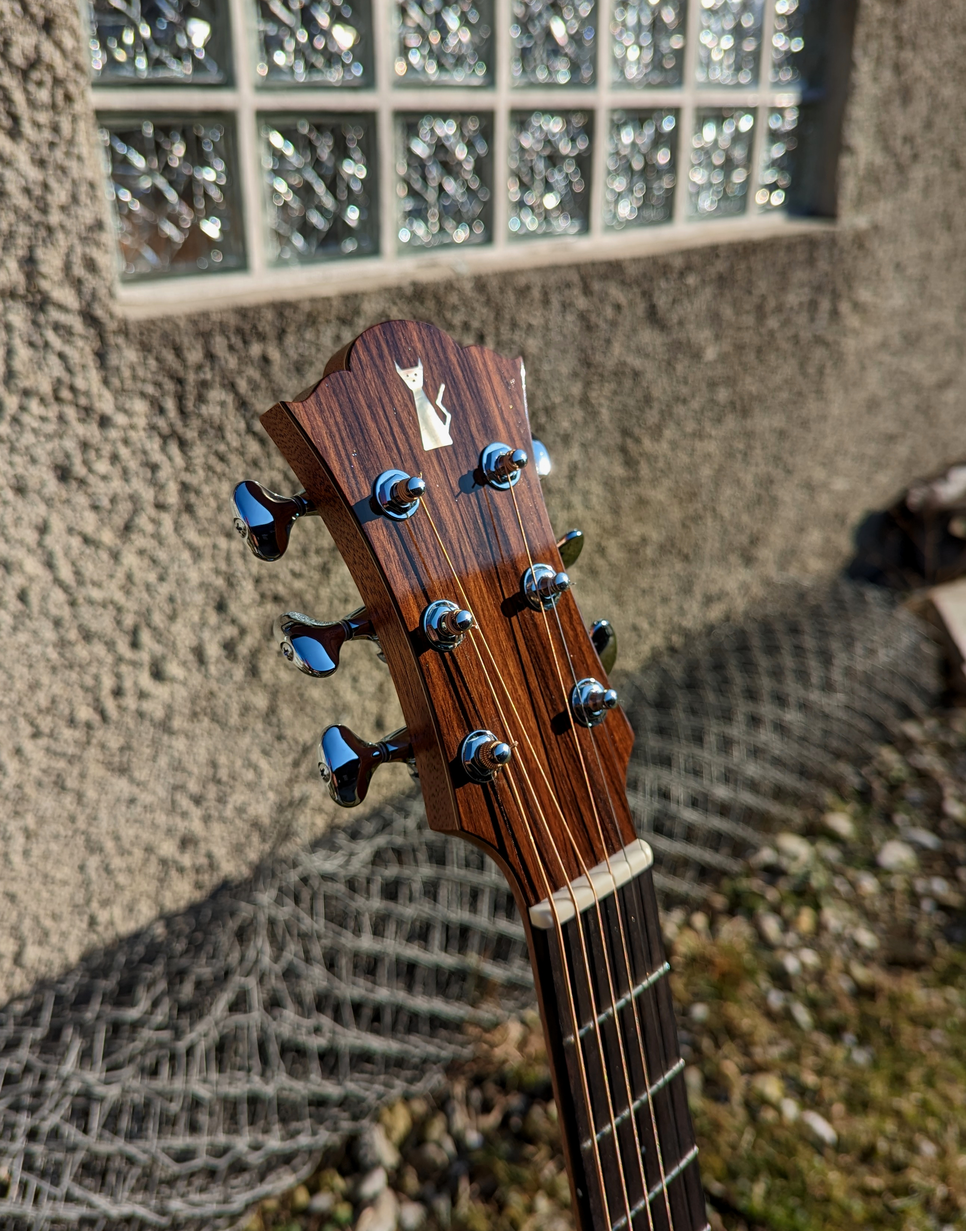
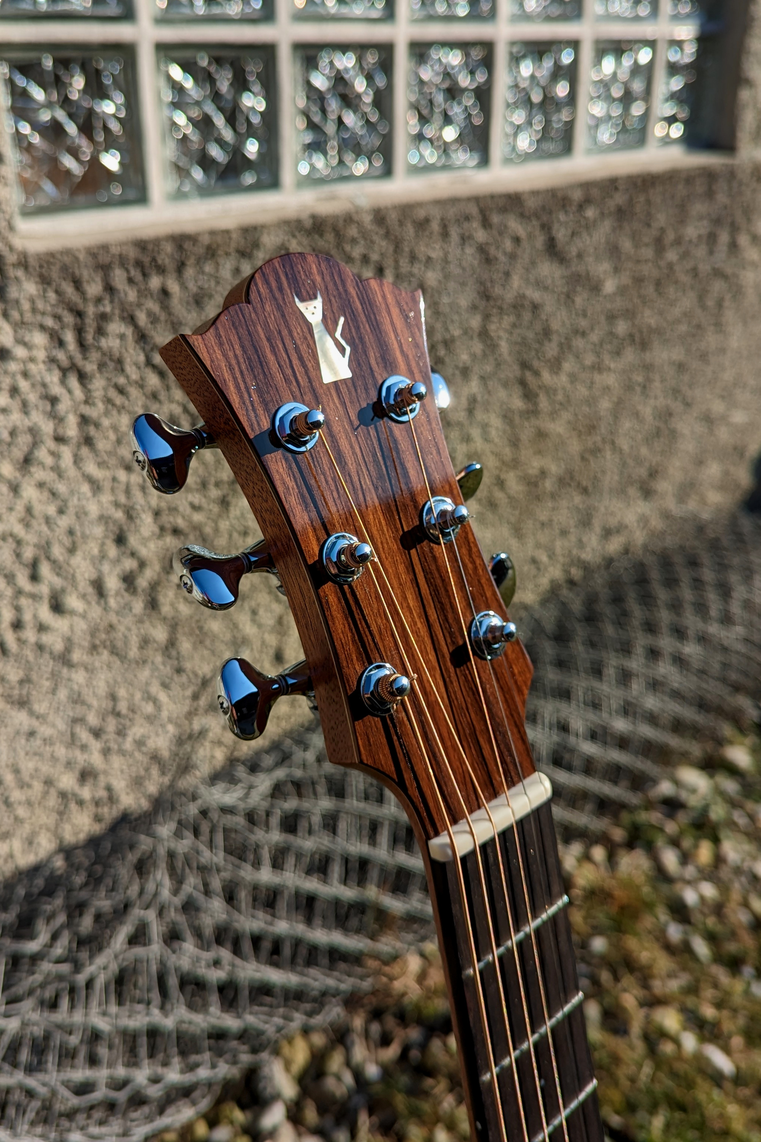
Aktualisierung
Neue Modelle. Neue Bilder. Ferienmeldung aktualisiert.
Texte überarbeitet.

diff --git a/templates/gitarren/neubau.html b/templates/gitarren/neubau.html
@@ -5,7 +5,7 @@
 <h2>Neubau</h2>
 
 <p>
-Klang, Ergonomie und Ästhetik sind für mich Wegweiser in der Gestaltung neuer Instrumente. Für die Umsetzung dieser Ideen ist es mir möglich, auf eine Auswahl abgelagerter Tonhölzer von hoher Qualität zurückzugreifen. Durch meine seit Jahren wachsende Leidenschaft für Saiteninstrumente hat sich eine Bauweise entwickelt, die meiner ganz persönlichen Idealvorstellung einer Gitarre sehr nahe kommt.
+Klang, Ergonomie und Ästhetik sind für mich Wegweiser in der Gestaltung neuer Instrumente. Für die Umsetzung dieser Ideen ist es mir möglich, auf eine Auswahl gut abgelagerter Tonhölzer von hoher Qualität zurückzugreifen. Durch meine seit Jahren wachsende Leidenschaft für Saiteninstrumente hat sich eine Bauweise entwickelt, die meiner ganz persönlichen Idealvorstellung einer Gitarre sehr nahe kommt.
 Neben der eigenen Modelreihe, die sich stetig weiter entwickelt, steht der individuelle Gitarrenbau absolut im Vordergrund.
 </p>
 <p>
@@ -15,4 +15,3 @@ Nahezu jeder Musiker hat seine persönlichen Vorstellungen vom perfekten Instrum
 <h2>New guitars</h2>
 {% end %}
 {% end %}
-

diff --git a/templates/base.html b/templates/base.html
@@ -60,9 +60,6 @@
             <!--<p>Die Werkstatt fuer Gitarrenbau bleibt vom 21.12.2020 - 13.01.2021 geschlossen.
             Ich befinde mich in der Winterpause und bin momentan nicht erreichbar. Vielen Dank für Euer Verständnis!</p>-->
             <p hidden></p>
-            <p>Da ich dieses Jahr mit dem Meisterkurs zum Zupfinstrumentenmachermeister beginne, möchte ich darauf hinweisen das ich vom <strong>11.03. - 18.05.2024</strong>
-            in der Werkstatt nicht präsent sein kann und auch keine Aufträge bearbeiten werde.
-            Vielen Dank für euer Verständnis!</p><br>
             <p>Durch meine Nebentätigkeit in der Klangwerkstatt in Markt Wald bin ich nicht immer in der Werkstatt erreichbar.
             Gerne könnt Ihr mir eine Nachricht auf dem Anrufbeantworter hinterlassen,
             ich rufe euch dann zurück. Oder schreibt mir einfach per email!</p>
